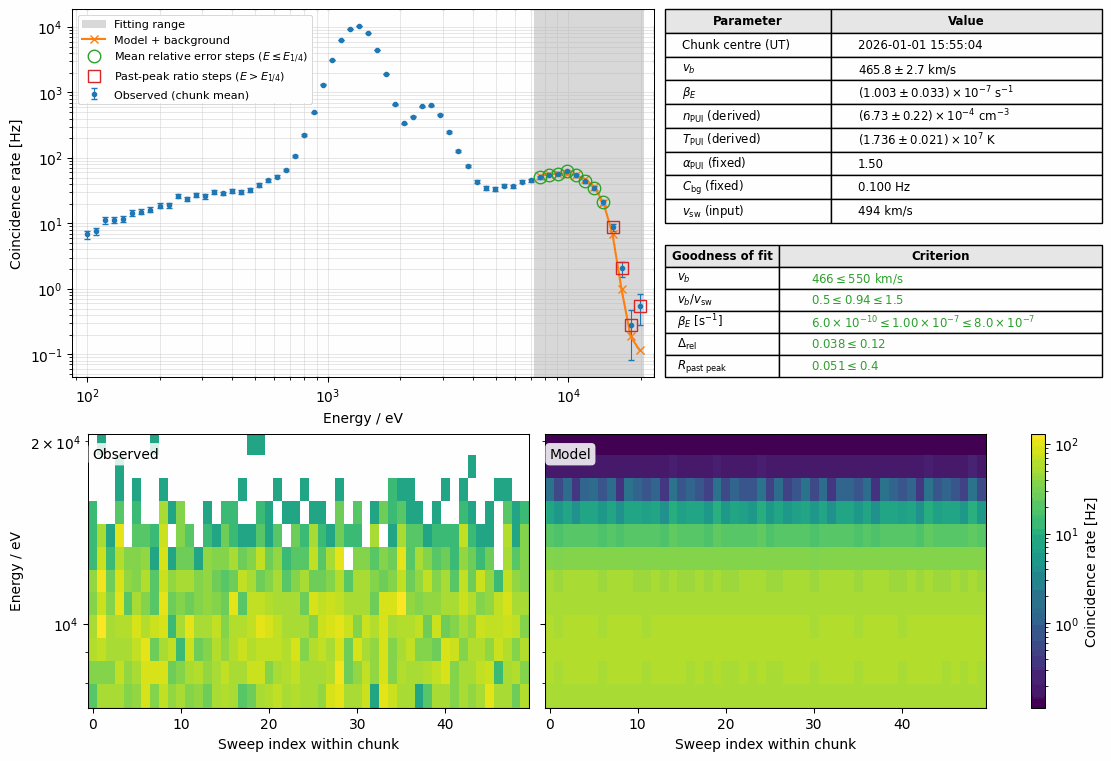
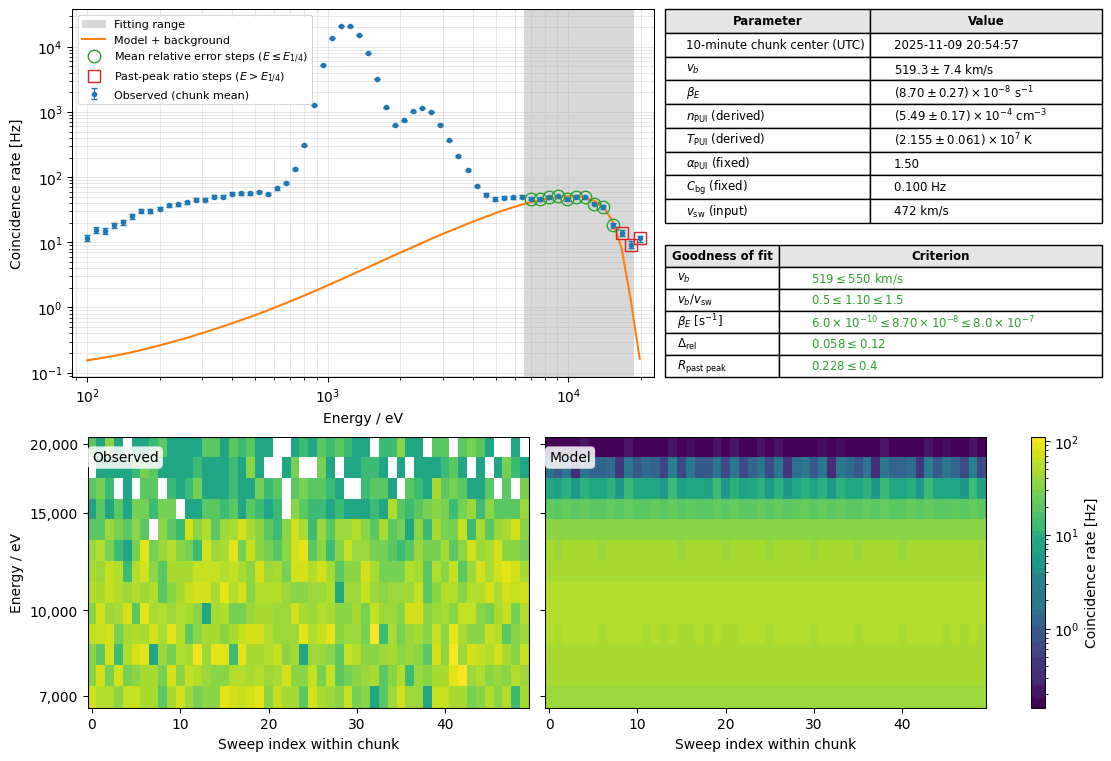
minor updates

diff --git a/scripts/swapi/view_one_pui_spectrum.py b/scripts/swapi/view_one_pui_spectrum.py
@@ -5,7 +5,7 @@ Loads the cached pickle output of fit_and_plot_pui.py (observed and
 production-model spectrograms, fit parameters) and plots the selected chunk's
 sweep-averaged spectrum above per-sweep spectrograms of the observed and
 modeled rates over the goodness-of-fit window (every coarse step above the
-lower fitting boundary). The modeled rate already includes the constant
+lower fitting boundary); the spectrum shows the model at every coarse step. The modeled rate already includes the constant
 instrument background, so it is directly comparable to the observed
 coincidence rate.
 
@@ -31,6 +31,7 @@ from pathlib import Path
 import matplotlib.pyplot as plt
 import numpy as np
 from matplotlib.colors import LogNorm
+from matplotlib.ticker import FixedLocator, NullLocator, StrMethodFormatter
 from spacepy.pycdf import lib as cdf_library
 
 from imap_processing.swapi.l2 import swapi_l2
@@ -180,7 +181,7 @@ mean_relative_error, past_peak_ratio = goodness_of_fit_metrics(
 )
 cutoff_speed_ratio = fit_cutoff_speed_kms / solar_wind_speed_kms
 
-pickup_ion_window_bin_mask = ~np.all(np.isnan(chunk_model_per_sweep), axis=0)
+pickup_ion_window_bin_mask = goodness_window_step_mask
 
 mean_energies_ev_per_step = np.nanmean(
     chunk_voltages_per_sweep * SWAPI_L2_K_FACTOR, axis=0
@@ -239,7 +240,7 @@ line_axis.errorbar(
 line_axis.plot(
     chunk_energies_mean_ev,
     chunk_model_mean,
-    "x-",
+    "-",
     color="tab:orange",
     label="Model + background",
 )
@@ -293,7 +294,10 @@ def _uncertain_mathtext(quantity, scientific: bool) -> str:
 
 
 parameter_rows = [
-    ("Chunk centre (UT)", f"{chunk_central_datetimes[chunk_index]:%Y-%m-%d %H:%M:%S}"),
+    (
+        "10-minute chunk center (UTC)",
+        f"{chunk_central_datetimes[chunk_index]:%Y-%m-%d %H:%M:%S}",
+    ),
     (
         r"$v_b$",
         _uncertain_mathtext(pickup_ion_data.cutoff_speed[chunk_index], False) + " km/s",
@@ -352,7 +356,7 @@ table_axis.axis("off")
 parameter_table = table_axis.table(
     cellText=[[name, value] for name, value in parameter_rows],
     colLabels=["Parameter", "Value"],
-    colWidths=[0.38, 0.62],
+    colWidths=[0.47, 0.53],
     cellLoc="left",
     bbox=[0.0, 0.42, 1.0, 0.58],
 )
@@ -404,6 +408,20 @@ for axis_for_spectrogram, spectrogram_values, label in (
         bbox=dict(boxstyle="round,pad=0.3", fc="white", alpha=0.85, ec="none"),
     )
 observed_spectrogram_axis.set_ylabel("Energy / eV")
+# Claude: the window spans well under a decade, so the default log ticks leave
+# Claude: only 10^4 and 2x10^4; label round energies inside it instead.
+spectrogram_energy_min, spectrogram_energy_max = observed_spectrogram_axis.get_ylim()
+observed_spectrogram_axis.yaxis.set_major_locator(
+    FixedLocator(
+        [
+            energy
+            for energy in (2000, 3000, 5000, 7000, 10000, 15000, 20000)
+            if spectrogram_energy_min <= energy <= spectrogram_energy_max
+        ]
+    )
+)
+observed_spectrogram_axis.yaxis.set_major_formatter(StrMethodFormatter("{x:,.0f}"))
+observed_spectrogram_axis.yaxis.set_minor_locator(NullLocator())
 model_spectrogram_axis.tick_params(axis="y", which="both", labelleft=False)
 figure.colorbar(
     mesh,

diff --git a/scripts/swapi/fit_and_plot_pui.py b/scripts/swapi/fit_and_plot_pui.py
@@ -42,9 +42,6 @@ from imap_l3_processing.swapi.constants import (
 from imap_l3_processing.swapi.l3a.science.pickup_ion.calculate_coincidence_rate import (
     calculate_coincidence_rate,
 )
-from imap_l3_processing.swapi.l3a.science.pickup_ion.calculate_pickup_ion_values import (
-    calculate_pickup_ion_fit_energy_range,
-)
 from imap_l3_processing.swapi.l3a.science.pickup_ion.collapsed_response_grid import (
     build_chunk_collapsed_response,
 )
@@ -64,23 +61,19 @@ from imap_l3_processing.swapi.species import Species
 
 
 def replay_chunk_spectrum(dependencies, fit_input, ionization_rate, cutoff_speed):
-    """Re-evaluate the forward model for one 50-sweep chunk on every coarse step
-    above the lower fitting boundary.
+    """Re-evaluate the forward model for one 50-sweep chunk on every coarse step.
 
-    That is the window the production goodness-of-fit check scores (the fit
-    itself also stops at the nominal 16 E_p upper boundary). Mirrors the grid
-    bounds in calculate_pickup_ion_values and adds the same constant
+    The fit and the goodness-of-fit check only see the steps above the lower
+    fitting boundary; the rest show how far the model reaches below it. Mirrors
+    the grid bounds in calculate_pickup_ion_values and adds the same constant
     background, so the modeled rate matches what the fitter compared against.
     """
     solar_wind_speed_inertial_frame = float(
         np.linalg.norm(fit_input.solar_wind_velocity_rtn_sun)
     )
 
-    lower_energy_cutoff, _upper_energy_cutoff = calculate_pickup_ion_fit_energy_range(
-        solar_wind_speed_inertial_frame
-    )
-    bin_mask = fit_input.esa_energies > lower_energy_cutoff
-    shared_energies = fit_input.esa_energies[bin_mask]
+    bin_mask = np.ones_like(fit_input.esa_energies, dtype=bool)
+    shared_energies = fit_input.esa_energies
 
     chunk_response = build_chunk_collapsed_response(
         swapi_response=dependencies.swapi_response,

diff --git a/docs/swapi/figure_src/plot_pui_flight_model_comparison.py b/docs/swapi/figure_src/plot_pui_flight_model_comparison.py
@@ -6,7 +6,7 @@ modeled rates over the PUI fit energy window.
 
 Runs the production helium PUI fit over the whole day via
 `scripts/swapi/fit_and_plot_pui.py`, then renders the single chunk nearest
-15:54:05 UT via `scripts/swapi/view_one_pui_spectrum.py`.
+20:54:57 UT via `scripts/swapi/view_one_pui_spectrum.py`.
 
 Requires the environment variable IMAP_API_KEY to be set (the fit downloads its
 L2 and SPICE inputs from the SDC).
@@ -42,8 +42,8 @@ from PIL import Image
 
 from figure_utils import DEFAULT_PNG_PALETTE_COLORS, FIGURES_DIR, require_imap_api_key
 
-_DATE = "2026-01-01"
-_CHUNK_TIME = "15:54:05"
+_DATE = "2025-11-09"
+_CHUNK_TIME = "20:54:57"
 _OUTPUT_PATH = FIGURES_DIR / "pui_flight_model_comparison.png"
 
 _SCRIPTS_DIR = REPO_ROOT / "scripts" / "swapi"
